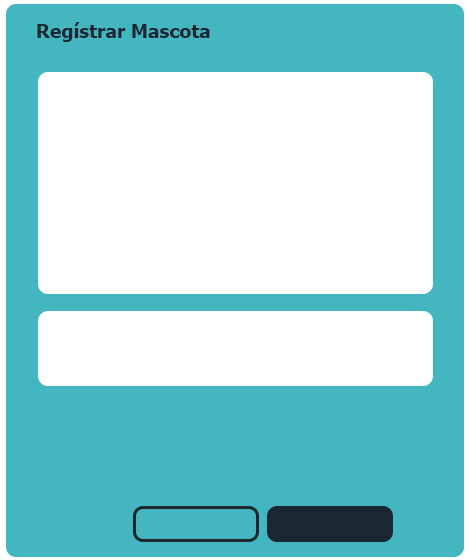
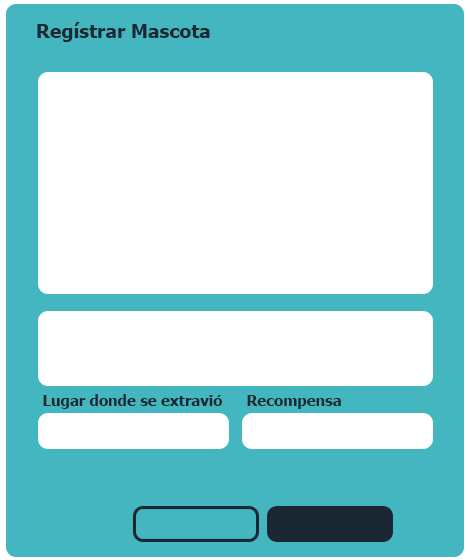
Incorporación Modo Registro Mascotas
Cambio de la secuencia de Registro y adición de campos Recompensa y
Lugar en que se encontró la mascota

Changed region(s): [[0.0596, 0.6982, 0.9234, 0.8196]]

diff --git a/src/registrar/mascota/VistaEtapaImagenes.java b/src/registrar/mascota/VistaEtapaImagenes.java
@@ -2,21 +2,15 @@ package registrar.mascota;
 
 
 import java.awt.*;
-import java.awt.event.ActionEvent;
-import java.awt.event.ActionListener;
-import java.awt.image.BufferedImage;
-import java.io.File;
-import java.io.IOException;
-import java.net.URL;
 
-import javax.imageio.ImageIO;
+import java.net.URL;
+import java.text.NumberFormat;
+
+
 import javax.swing.*;
 
 import fabrica.botones.FabricaBotones;
 
-import javax.swing.filechooser.FileNameExtensionFilter;
-
-import net.coobird.thumbnailator.Thumbnails;
 
 public class VistaEtapaImagenes extends JPanel{
 
@@ -34,19 +28,14 @@ public class VistaEtapaImagenes extends JPanel{
 	JButton btnImagen4;
 	JButton btnImagen5;
 	JLabel lblImagenPrincipal;
+
+	JTextField txtLugar;
+	JFormattedTextField txtRecompensa;
+	NumberFormat formatoCantidad = NumberFormat.getCurrencyInstance();
+	final static Font fontTextos = new Font("Segoe UI", Font.BOLD, 13);
+	
 	
 	protected VistaEtapaImagenes() {
-		
-	}
-	
-	public static VistaEtapaImagenes getInstance() {
-		if (instance == null) {	instance = new VistaEtapaImagenes(); }
-		return instance;
-	}
-	
-	
-	
-	public void crearVista(){
 		setLayout(null);
 		setSize(600, 600);
 		
@@ -98,8 +87,29 @@ public class VistaEtapaImagenes extends JPanel{
 		btnImagen5.setName("5");
 		panelMiniaturas.add(btnImagen5);
 		
-		lblImagenPrincipal = new JLabel("ImagenPrincipal");
+		txtLugar = new JTextField();
+		txtLugar.setBounds(44, 416, 177, 30);
+		panelSurround.add(txtLugar);
+		txtLugar.setOpaque(false);
+		txtLugar.setForeground(new Color(27, 39, 51));
+		txtLugar.setFont(fontTextos);
+		txtLugar.setColumns(10);
+		txtLugar.setBorder(null);
+		
+		txtRecompensa = new JFormattedTextField(formatoCantidad);
+		txtRecompensa.setValue(new Double(0.0));
+		txtRecompensa.setOpaque(false);
+		txtRecompensa.setForeground(new Color(27, 39, 51));
+		txtRecompensa.setFont(fontTextos);
+		txtRecompensa.setColumns(10);
+		txtRecompensa.setBorder(null);
+		txtRecompensa.setBounds(248, 416, 177, 30);
+		panelSurround.add(txtRecompensa);
+		
+		lblImagenPrincipal = new JLabel("Imagen Principal");
 		lblImagenPrincipal.setHorizontalAlignment(SwingConstants.CENTER);
+		lblImagenPrincipal.setForeground(new Color(27, 39, 51));
+		lblImagenPrincipal.setFont(fontTextos);
 		lblImagenPrincipal.setBounds(44, 79, 382, 207);
 		panelSurround.add(lblImagenPrincipal);
 		
@@ -109,6 +119,17 @@ public class VistaEtapaImagenes extends JPanel{
 		lblBG.setIcon(new ImageIcon(VistaEtapaImagenes.class.getResource("/recursos/RegistrarMascota2.png")));
 		setFocusable(true);
 		requestFocusInWindow();
+	}
+	
+	public static VistaEtapaImagenes getInstance() {
+		if (instance == null) {	instance = new VistaEtapaImagenes(); }
+		return instance;
+	}
+	
+	
+	
+	public void crearVista(){
+		
 	}
 	
 	

diff --git a/src/registrar/mascota/VistaEtapaSeleccion.java b/src/registrar/mascota/VistaEtapaSeleccion.java
@@ -1,0 +1,69 @@
+package registrar.mascota;
+
+import java.awt.Color;
+
+import javax.swing.BorderFactory;
+import javax.swing.JFrame;
+import javax.swing.JLabel;
+import javax.swing.ImageIcon;
+import javax.swing.JPanel;
+import javax.swing.JButton;
+import javax.swing.UIManager;
+import javax.swing.border.Border;
+import javax.swing.border.LineBorder;
+import javax.swing.plaf.BorderUIResource;
+
+import fabrica.botones.FabricaBotones;
+
+public class VistaEtapaSeleccion extends JPanel{
+	
+	private static VistaEtapaSeleccion instance = null;
+	
+	JButton btnMascotaPerdida;
+	JButton btnMascotaEncontrada;
+	JButton btnSiguiente;
+	JButton btnCancelar;
+
+	protected VistaEtapaSeleccion() {
+		
+	}
+	
+	public static VistaEtapaSeleccion getInstance() {
+		if (instance == null) {	instance = new VistaEtapaSeleccion(); }
+		return instance;
+	}
+	
+	public void crearVista(){
+		
+		setLayout(null);
+		JPanel panelSurround = new JPanel();
+		panelSurround.setBounds(57, 5, 470, 560);
+		add(panelSurround);
+		panelSurround.setLayout(null);
+		
+		btnMascotaPerdida = FabricaBotones.crearBoton(FabricaBotones.TRANSPARENTE, "");
+		btnMascotaPerdida.setBounds(31, 176, 176, 153);
+		
+		panelSurround.add(btnMascotaPerdida);
+		
+		btnMascotaEncontrada = FabricaBotones.crearBoton(FabricaBotones.TRANSPARENTE, "");
+		btnMascotaEncontrada.setBounds(262, 176, 176, 153);
+		panelSurround.add(btnMascotaEncontrada);
+		
+		btnSiguiente = FabricaBotones.crearBoton(FabricaBotones.TRANSPARENTE, "Siguiente");
+		btnSiguiente.setForeground(Color.WHITE);
+		btnSiguiente.setEnabled(false);
+		btnSiguiente.setBounds(264, 503, 131, 41);
+		panelSurround.add(btnSiguiente);
+		
+		btnCancelar = FabricaBotones.crearBoton(FabricaBotones.TRANSPARENTE, "Cancelar");
+		btnCancelar.setForeground(Color.WHITE);
+		btnCancelar.setBounds(130, 503, 131, 41);
+		panelSurround.add(btnCancelar);
+		
+		JLabel lblBG = new JLabel("");
+		lblBG.setBounds(0, 0, 470, 560);
+		panelSurround.add(lblBG);
+		lblBG.setIcon(new ImageIcon(VistaEtapaSeleccion.class.getResource("/recursos/RegistrarMascota3.png")));
+	}
+}

diff --git a/src/registrar/mascota/ControladorEtapaImagenes.java b/src/registrar/mascota/ControladorEtapaImagenes.java
@@ -6,6 +6,8 @@ import java.awt.event.KeyEvent;
 import java.awt.event.KeyListener;
 import java.awt.event.MouseEvent;
 import java.awt.event.MouseListener;
+import java.beans.PropertyChangeEvent;
+import java.beans.PropertyChangeListener;
 import java.io.IOException;
 
 import javax.swing.ImageIcon;
@@ -14,7 +16,7 @@ import javax.swing.JButton;
 import fabrica.botones.FabricaBotones;
 import fabrica.botones.JButtonTransparente;
 
-public class ControladorEtapaImagenes implements ActionListener,MouseListener{
+public class ControladorEtapaImagenes implements ActionListener,MouseListener,PropertyChangeListener{
 
 	ModeloEtapaImagenes modelo = null;
 	VistaEtapaImagenes vista = null;
@@ -30,14 +32,14 @@ public class ControladorEtapaImagenes implements ActionListener,MouseListener{
 		vista.btnAtras.addActionListener(escuchador);
 		vista.btnGuardar.addActionListener(escuchador);
 		
-		
-		
 		vista.btnImagen0.addMouseListener(this);
 		vista.btnImagen1.addMouseListener(this);
 		vista.btnImagen2.addMouseListener(this);
 		vista.btnImagen3.addMouseListener(this);
 		vista.btnImagen4.addMouseListener(this);
 		vista.btnImagen5.addMouseListener(this);
+		
+		vista.txtRecompensa.addPropertyChangeListener("value", this);
 	}
 	
 	
@@ -87,6 +89,15 @@ public class ControladorEtapaImagenes implements ActionListener,MouseListener{
 	public void mousePressed(MouseEvent e) {}
 	public void mouseReleased(MouseEvent e) {}
 	
+	public void propertyChange(PropertyChangeEvent e) {
+		Object source = e.getSource();
+        if (source == vista.txtRecompensa) {
+            /*Anadir resultado*/vista.txtRecompensa.getValue();
+            
+        }
+		
+	}
+	
 	public void seleccionBotonDefault(){
 		if(btnTemp==vista.btnImagen0 && vista.btnImagen1.getIcon()== null){
 			vista.btnImagen1.setIcon(new ImageIcon(VistaEtapaImagenes.ICONO_DEFAULT));
@@ -109,6 +120,9 @@ public class ControladorEtapaImagenes implements ActionListener,MouseListener{
 			vista.lblImagenPrincipal.setIcon(new ImageIcon(modelo.obtenerImagenPrincipal()));
 		} 
 	}
+
+	
+	
 	
 	
 	

diff --git a/src/registrar/mascota/RegistrarMascota.java b/src/registrar/mascota/RegistrarMascota.java
@@ -4,6 +4,8 @@ import javax.swing.JDialog;
 import javax.swing.JPanel;
 
 
+
+
 import java.awt.CardLayout;
 
 
@@ -12,6 +14,9 @@ import java.awt.CardLayout;
 public class RegistrarMascota extends JDialog{
 
 	private static RegistrarMascota instance = null;
+	public static String modoRegistro= "";
+	public static final String ENCONTRADO = "Encontrado";
+	public static final String EXTRAVIADO = "Extraviado";
 	JPanel panelCards = new JPanel();
 	CardLayout cardlayout = new CardLayout();
 	protected RegistrarMascota() {
@@ -36,6 +41,12 @@ public class RegistrarMascota extends JDialog{
 	
 	public void agregarPaneles(){
 		
+		VistaEtapaSeleccion etapaseleccion = VistaEtapaSeleccion.getInstance();
+		etapaseleccion.crearVista();
+		new ControladorEtapaSeleccion();
+		panelCards.add("VistaEtapaSeleccion",etapaseleccion);
+		
+		
 		VistaEtapaDatos etapadatos = VistaEtapaDatos.getInstance();
 		etapadatos.crearVista();
 		new ControladorEtapaDatos();
@@ -47,23 +58,27 @@ public class RegistrarMascota extends JDialog{
 		new ControladorEtapaImagenes();
 		panelCards.add("VistaEtapaImagenes",etapaimagenes);
 		
-		cardlayout.show(panelCards, "VistaEtapaDatos");
+		cardlayout.show(panelCards, "VistaEtapaSeleccion");
 	}
 
 	public static void main(String[] args) {
 		getInstance().crearDialog();
 	}
+	
+	public static void actualizarModo(){
+		if (modoRegistro.equals(ENCONTRADO)){
+			VistaEtapaImagenes.getInstance().txtRecompensa.setEnabled(false);
+		}else if(modoRegistro.equals(EXTRAVIADO)){
+			VistaEtapaImagenes.getInstance().txtRecompensa.setEnabled(true);
+		}
+	}
 
-	/**
-	 * @return the panelCards
-	 */
+	
 	public JPanel getPanelCards() {
 		return panelCards;
 	}
 
-	/**
-	 * @param panelCards the panelCards to set
-	 */
+	
 	public void setPanelCards(JPanel panelCards) {
 		this.panelCards = panelCards;
 	}

diff --git a/src/registrar/mascota/ControladorEtapaSeleccion.java b/src/registrar/mascota/ControladorEtapaSeleccion.java
@@ -1,0 +1,49 @@
+package registrar.mascota;
+
+import java.awt.event.ActionEvent;
+import java.awt.event.ActionListener;
+
+public class ControladorEtapaSeleccion implements ActionListener{
+
+	VistaEtapaSeleccion vista = null;
+	ModeloEtapaSeleccion modelo = null;
+	
+	public ControladorEtapaSeleccion() {
+		this.modelo = ModeloEtapaSeleccion.getInstance();
+		this.vista = VistaEtapaSeleccion.getInstance();
+		setAcciones(this);
+	}
+
+	
+	private void setAcciones(ActionListener escuchador) {
+		vista.btnMascotaEncontrada.addActionListener(escuchador);
+		vista.btnMascotaPerdida.addActionListener(escuchador);
+		vista.btnCancelar.addActionListener(escuchador);
+	}
+
+
+	public void actionPerformed(ActionEvent e) {
+		Object source = e.getSource();
+		if (source == vista.btnCancelar) {
+			RegistrarMascota.getInstance().dispose();
+		}
+		
+		if (source == vista.btnMascotaEncontrada) {
+			RegistrarMascota.modoRegistro = RegistrarMascota.ENCONTRADO;
+			RegistrarMascota.actualizarModo();
+			RegistrarMascota.getInstance().cardlayout.show(RegistrarMascota.getInstance().panelCards,"VistaEtapaDatos");
+			vista.getParent().repaint();
+			vista.getParent().revalidate();
+		}
+		
+		if (source == vista.btnMascotaPerdida) {
+			RegistrarMascota.modoRegistro = RegistrarMascota.EXTRAVIADO;
+			RegistrarMascota.actualizarModo();
+			RegistrarMascota.getInstance().cardlayout.show(RegistrarMascota.getInstance().panelCards,"VistaEtapaDatos");
+			vista.getParent().repaint();
+			vista.getParent().revalidate();
+		}
+		
+	}
+
+}

diff --git a/src/registrar/mascota/ControladorEtapaDatos.java b/src/registrar/mascota/ControladorEtapaDatos.java
@@ -21,14 +21,14 @@ public class ControladorEtapaDatos implements ActionListener{
 	}
 	
 	private void setAcciones(ActionListener escuchador){
-		vista.btnCancelar.addActionListener(escuchador);
+		vista.btnAtras.addActionListener(escuchador);
 		vista.btnSiguiente.addActionListener(escuchador);
 		vista.cbEspecie.addActionListener(new accionCBEspecie(vista.cbEspecie));
 	}
 	
 	public void actionPerformed(ActionEvent e) {
-		if (e.getActionCommand() == "Cancelar"){
-			RegistrarMascota.getInstance().dispose();
+		if (e.getSource()==vista.btnAtras){
+			RegistrarMascota.getInstance().cardlayout.show(RegistrarMascota.getInstance().panelCards,"VistaEtapaSeleccion");
 		}
 		
 		if (e.getActionCommand().equals("Siguiente")){

diff --git a/src/registrar/mascota/ModeloEtapaSeleccion.java b/src/registrar/mascota/ModeloEtapaSeleccion.java
@@ -1,0 +1,18 @@
+package registrar.mascota;
+
+public class ModeloEtapaSeleccion {
+
+	private static ModeloEtapaSeleccion instance = null;
+	protected ModeloEtapaSeleccion() {
+		
+	}
+	
+	public static ModeloEtapaSeleccion getInstance(){
+		if (instance == null){ instance = new ModeloEtapaSeleccion(); }
+		return instance;
+	}
+	
+	
+	
+
+}
